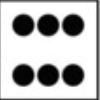
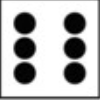
Rotate domino faces when horizontal, rotate stored 6 image

diff --git a/src/Domino.js b/src/Domino.js
@@ -10,11 +10,13 @@ class Domino extends React.Component {
     let size = {width: this.props.size + "px", height: this.props.size + "px"};
     let style1 = {...size, gridColumn: this.props.x1 + "/" + (this.props.x1 + this.props.span),
                            gridRow: this.props.y1 + "/" + (this.props.y1 + this.props.span),
-                           opacity: this.props.opacity};/*,
+                           opacity: this.props.opacity,
+                           transform: "rotate(" + (this.props.rotate ? 9 : "") + "0deg)"};/*,
                            border: "3px solid #66CC33"};*/
     let style2 = {...size, gridColumn: this.props.x2 + "/" + (this.props.x2 + this.props.span),
                            gridRow: this.props.y2 + "/" + (this.props.y2 + this.props.span),
-                           opacity: this.props.opacity};/*,
+                           opacity: this.props.opacity,
+                           transform: "rotate(" + (this.props.rotate ? 9 : "") + "0deg)"};/*,
                            border: "3px solid #66CC33"};*/
 
     if (this.props.reversed){

diff --git a/src/Board.js b/src/Board.js
@@ -121,12 +121,15 @@ class Board extends React.Component {
                 style={{ gridTemplateColumns: "repeat(" + board_width + ", " + square_size + "px)", gridAutoRows: square_size + "px"}}>
   
       {domino_info.map((d, index) => {
+              let y1 = d["locations"][0][1];
+              let y2 = d["locations"][1][1];
               return (<Domino
               face1={d["faces"][0]} face2={d["faces"][1]}
               x1={d["locations"][0][0]}
-              y1={d["locations"][0][1]}
+              y1={y1}
               x2={d["locations"][1][0]}
-              y2={d["locations"][1][1]}
+              y2={y2}
+              rotate={y1 === y2}
               span={this.state.span}
               size={this.state.domino_size}
               key={index} />
